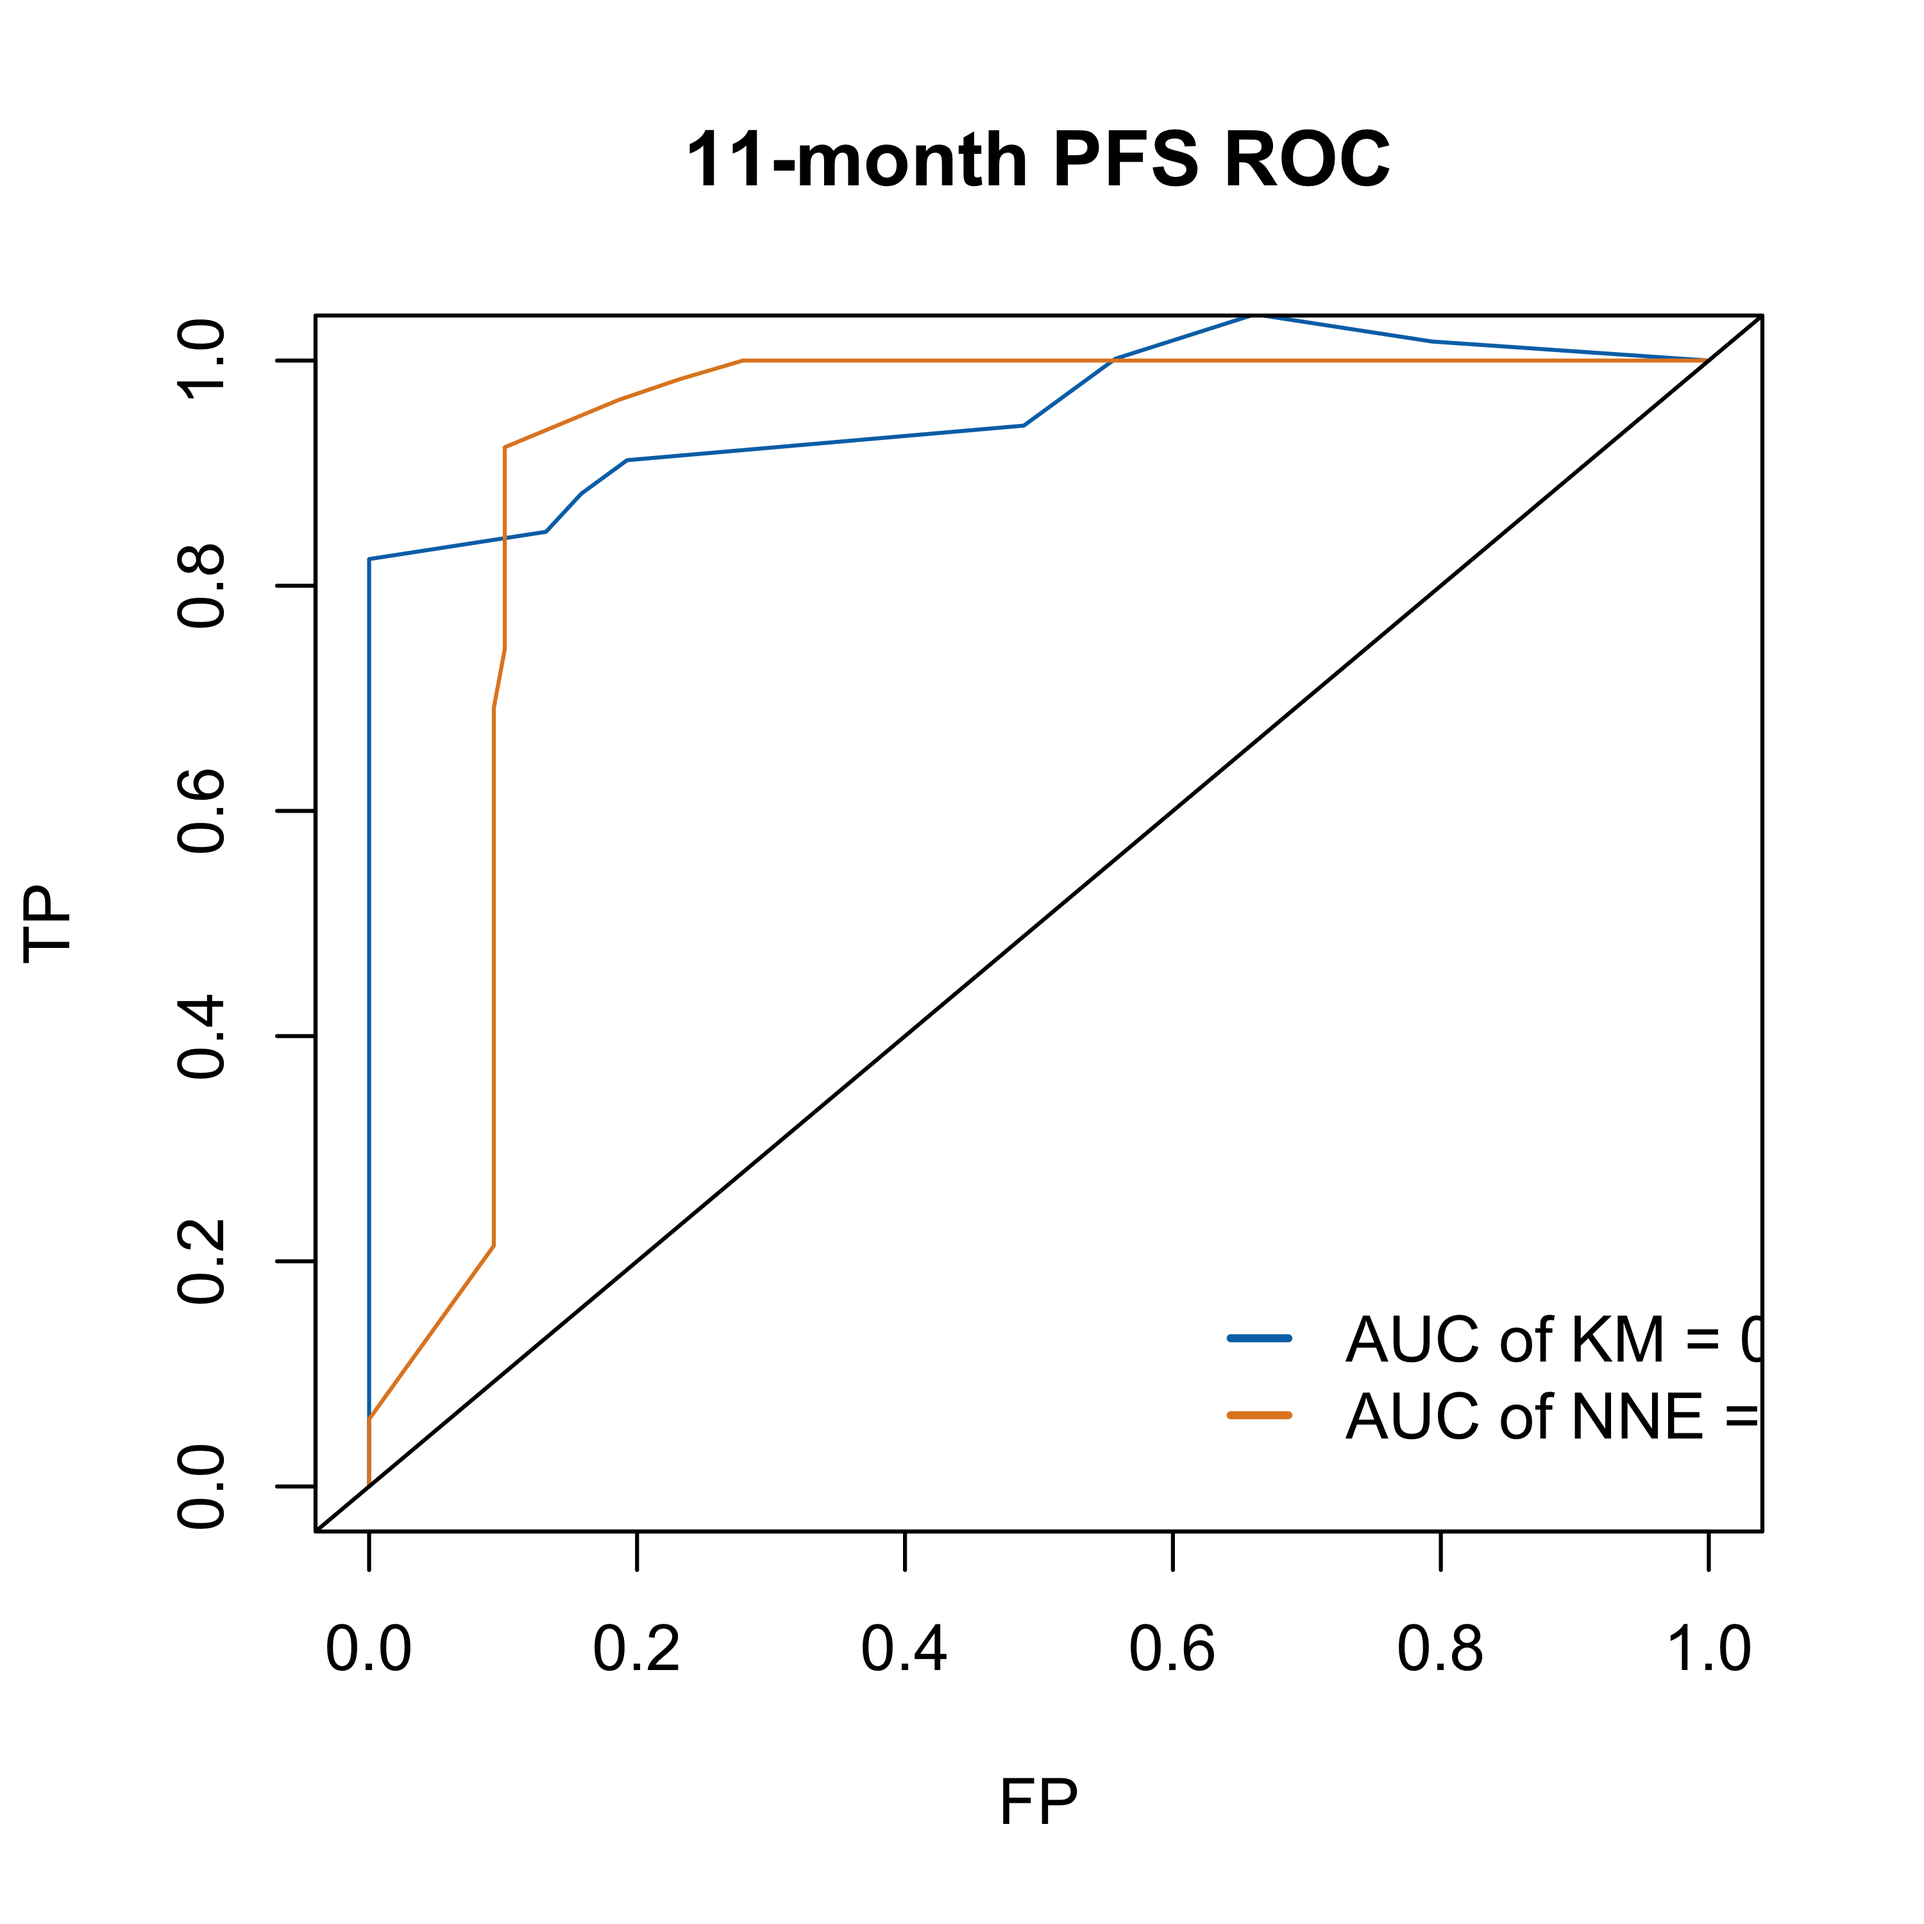
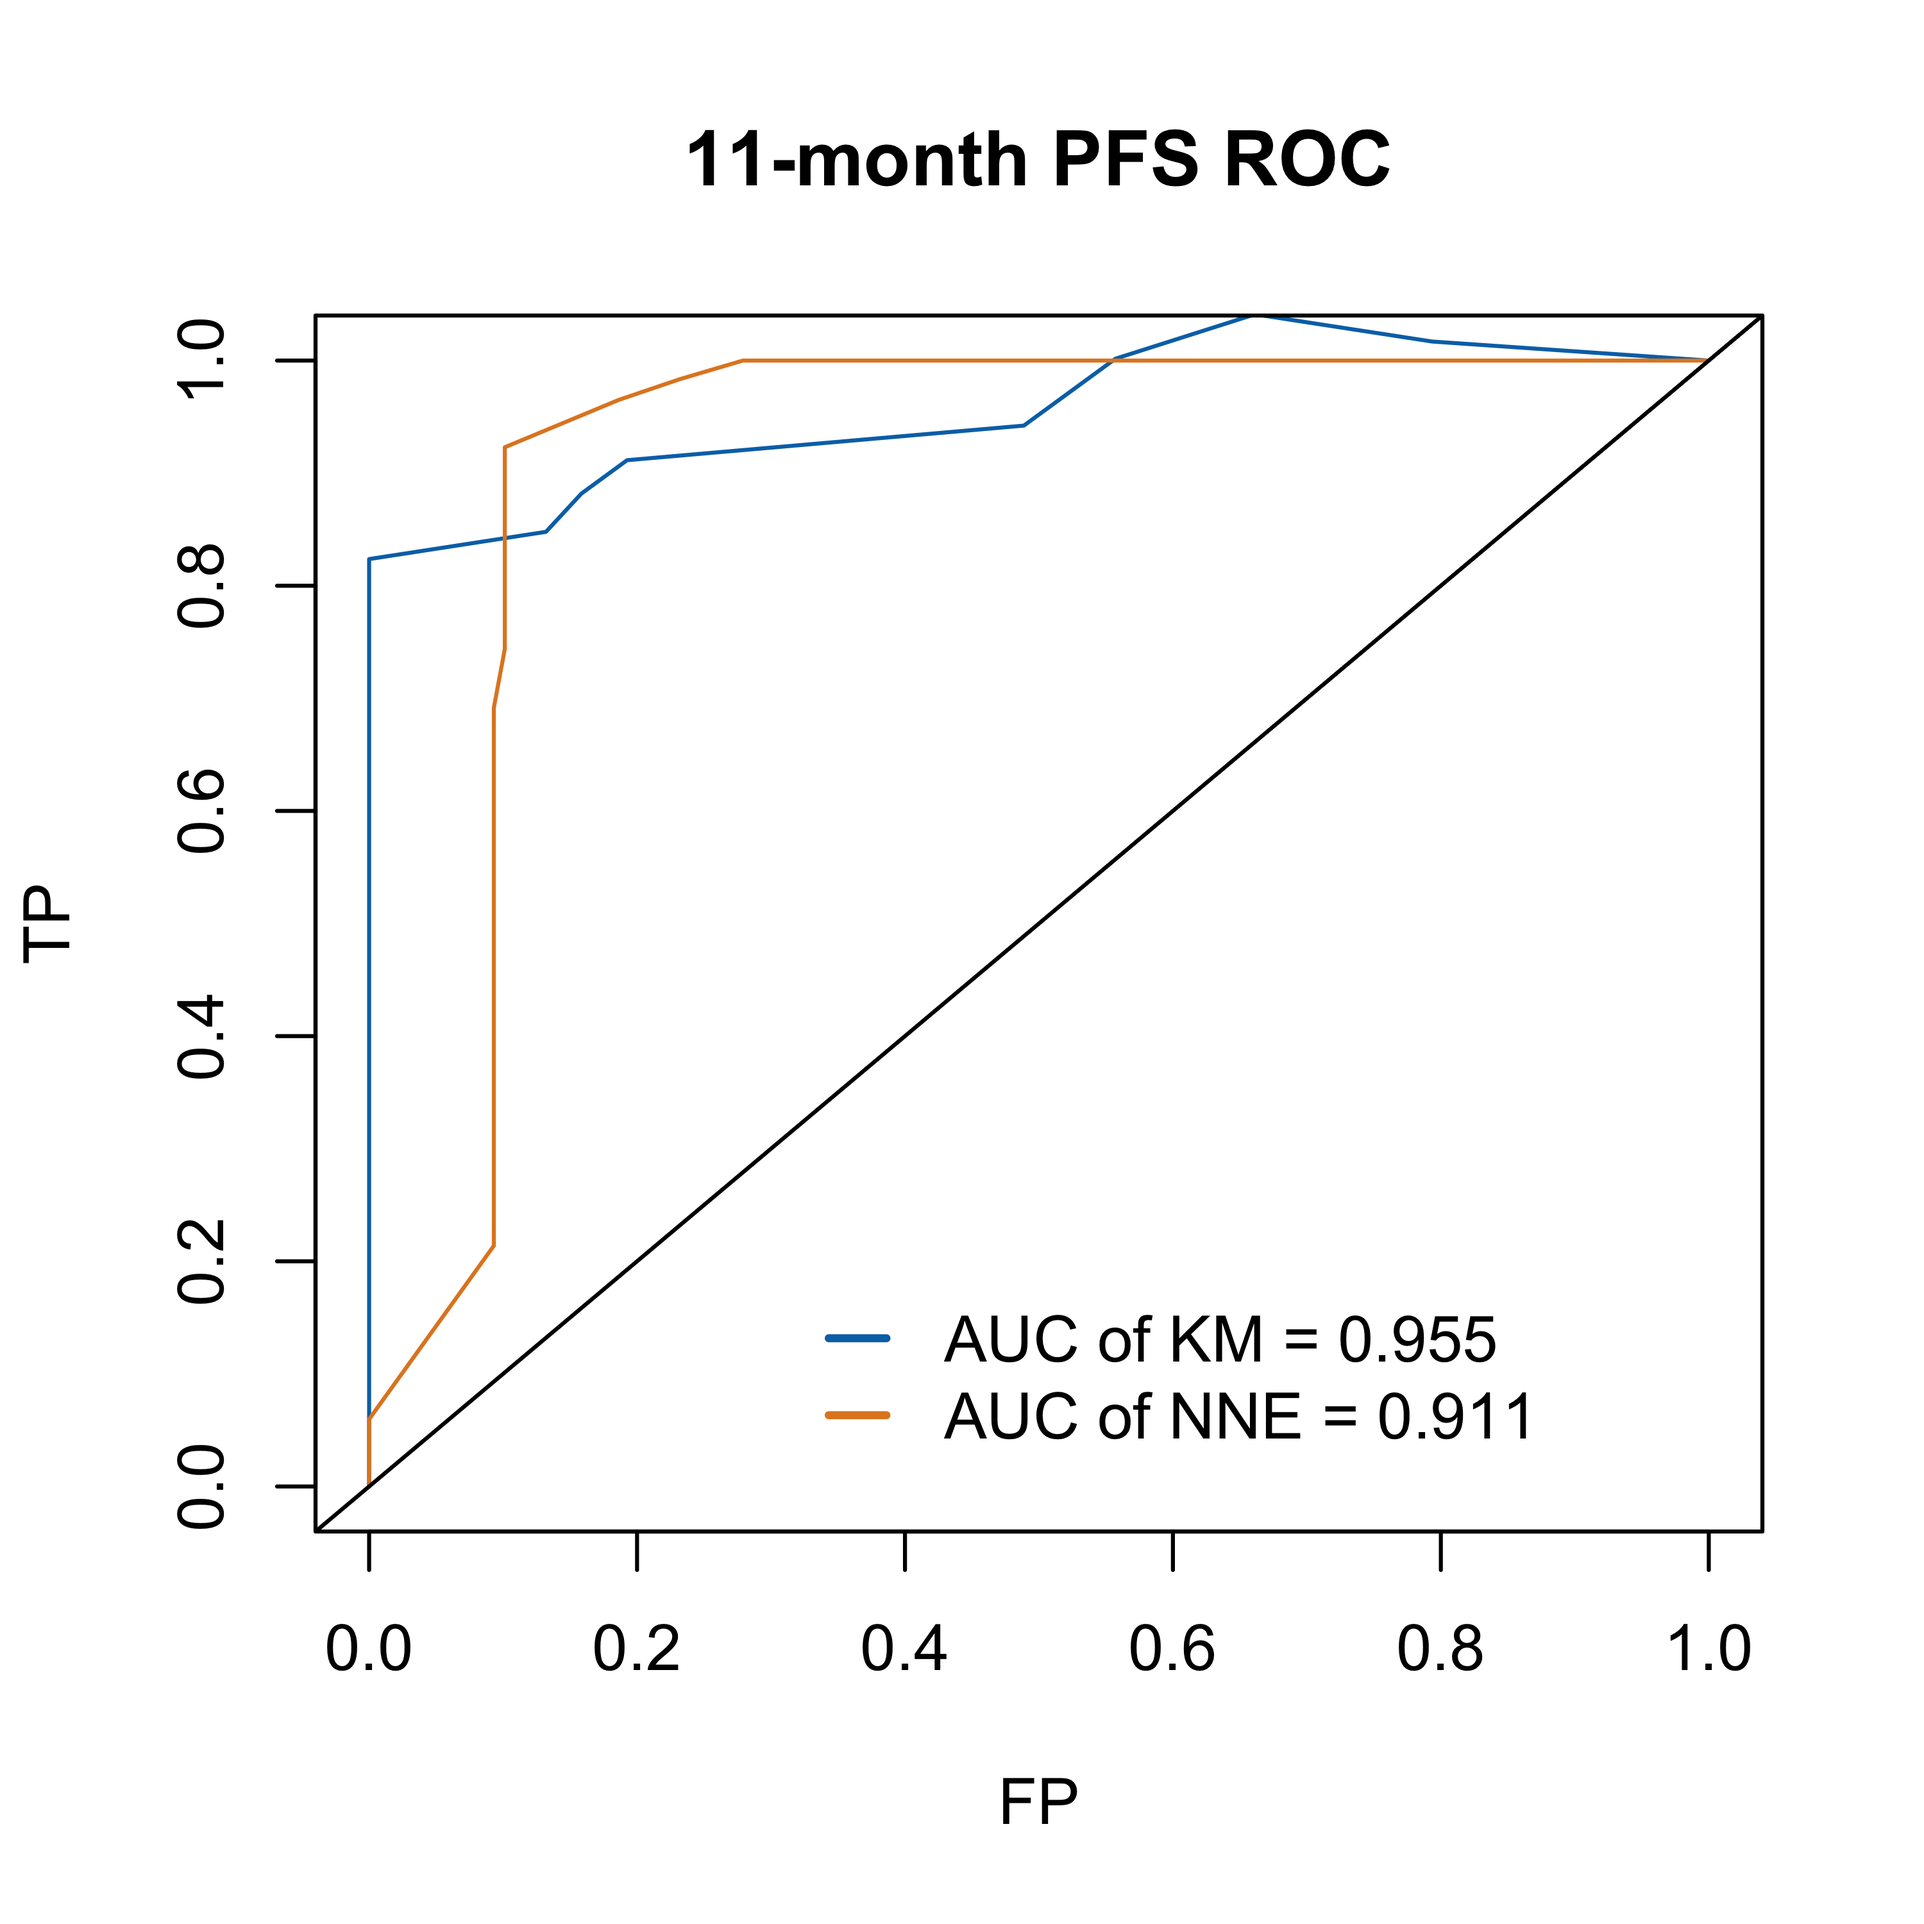
add survival and ML analysis

Changed region(s): [[0.496, 0.682, 0.899, 0.744], [0.434, 0.682, 0.465, 0.744], [0.899, 0.682, 0.93, 0.713]]

diff --git a/Analysis Ducoments/Survival-and-machine-learning.md b/Analysis Ducoments/Survival-and-machine-learning.md
@@ -1,15 +1,14 @@
 -   [1 Requires](#requires)
 -   [2 Risk prediction model for PFS](#risk-prediction-model-for-pfs)
     -   [2.1 univariable CoxPH screening](#univariable-coxph-screening)
-        -   [2.1.1 multivariable Cox
-            screening](#multivariable-cox-screening)
-        -   [2.1.2 Final CoxPH modle](#final-coxph-modle)
-        -   [2.1.3 Reclassified patients based on CoxPH
-            modle](#reclassified-patients-based-on-coxph-modle)
-        -   [2.1.4 PFS survival curve](#pfs-survival-curve)
-        -   [2.1.5 ROC and Precision-Recall
-            curves](#roc-and-precision-recall-curves)
-    -   [2.2 Time‐dependent ROC curves](#timedependent-roc-curves)
+    -   [2.2 multivariable Cox screening](#multivariable-cox-screening)
+    -   [2.3 Final CoxPH modle](#final-coxph-modle)
+    -   [2.4 Reclassified patients based on CoxPH
+        modle](#reclassified-patients-based-on-coxph-modle)
+    -   [2.5 PFS survival curve](#pfs-survival-curve)
+    -   [2.6 ROC and Precision-Recall
+        curves](#roc-and-precision-recall-curves)
+    -   [2.7 Time‐dependent ROC curves](#timedependent-roc-curves)
 
 [`Return`](./)
 
@@ -137,15 +136,15 @@
     ## [25] "shannon"         "simpson"         "Alistipes"       "Fusobacterium"  
     ## $Age
     ## Surv(time, status) ~ Age
-    ## <environment: 0x7fc3403fc6d8>
+    ## <environment: 0x7fcf1a36e6d8>
     ## 
     ## $BMI
     ## Surv(time, status) ~ BMI
-    ## <environment: 0x7fc3403f9938>
+    ## <environment: 0x7fcf1a36b938>
     ## 
     ## $antiVEGF
     ## Surv(time, status) ~ antiVEGF
-    ## <environment: 0x7fc3402e7ba0>
+    ## <environment: 0x7fcf1a259ba0>
     ## 
     ## [1] "j=1"
     ## [1] "j=2"
@@ -219,7 +218,8 @@
 </tbody>
 </table>
 
-### 2.1.1 multivariable Cox screening
+2.2 multivariable Cox screening
+-------------------------------
 
     fmla <- as.formula(paste0("Surv(time, status) ~",paste0(single_pick,collapse = '+')))
     colnames(PFSdata)[c(2,3)]=c("status","time")
@@ -278,7 +278,8 @@
     ## - BMI             1 151.31
     ## - shannon         1 155.28
 
-### 2.1.2 Final CoxPH modle
+2.3 Final CoxPH modle
+---------------------
 
     ggforest(model,data = survival_dat_merge,
              noDigits = 2,fontsize =0.5)+
@@ -286,14 +287,16 @@
 
 <img src="Survival-and-machine-learning_files/figure-markdown_strict/unnamed-chunk-4-1.png" width="50%" style="display: block; margin: auto;" />
 
-### 2.1.3 Reclassified patients based on CoxPH modle
+2.4 Reclassified patients based on CoxPH modle
+----------------------------------------------
 
     riskScore=predict(cox,type="risk",newdata=survival_dat_merge)
     risk=as.vector(ifelse(riskScore>1,"high","low"))
     multiCOX_risk_result<-cbind(id=rownames(cbind(survival_dat_merge[,1:2],riskScore,risk)),
                                 cbind(survival_dat_merge[,1:2],riskScore,risk))
 
-### 2.1.4 PFS survival curve
+2.5 PFS survival curve
+----------------------
 
     rt1<-multiCOX_risk_result
     colnames(rt1)[2:3]=c("PFS","PFStime")
@@ -325,7 +328,8 @@
 
 <img src="Survival-and-machine-learning_files/figure-markdown_strict/unnamed-chunk-7-1.png" width="30%" style="display: block; margin: auto;" />
 
-### 2.1.5 ROC and Precision-Recall curves
+2.6 ROC and Precision-Recall curves
+-----------------------------------
 
     rt<-multiCOX_risk_result
     sscurves <- evalmod(scores = rt$time, labels = rt$risk)
@@ -365,7 +369,7 @@
 
 <img src="Survival-and-machine-learning_files/figure-markdown_strict/unnamed-chunk-9-1.png" width="30%" style="display: block; margin: auto;" />
 
-2.2 Time‐dependent ROC curves
+2.7 Time‐dependent ROC curves
 -----------------------------
 
     rt<-multiCOX_risk_result
@@ -419,7 +423,7 @@
     plot(SROC$FP,SROC$TP, type="l", xlim=c(0,1), ylim=c(0,1),  
          ylab = "TP",main = "11-month PFS ROC", col="#0072B5FF",xlab="FP")
     lines(SROC1$FP, SROC1$TP, type="l",col="#E18727FF",xlim=c(0,1), ylim=c(0,1))
-    legend(0.6,0.2,c(paste("AUC of KM =",round(SROC$AUC,3)),
+    legend(0.3,0.2,c(paste("AUC of KM =",round(SROC$AUC,3)),
                      paste("AUC of NNE =",round(SROC1$AUC,3))),
            x.intersp=1, y.intersp=1,
            lty= 1 ,lwd= 2,col=c( "#0072B5FF","#E18727FF" ),
